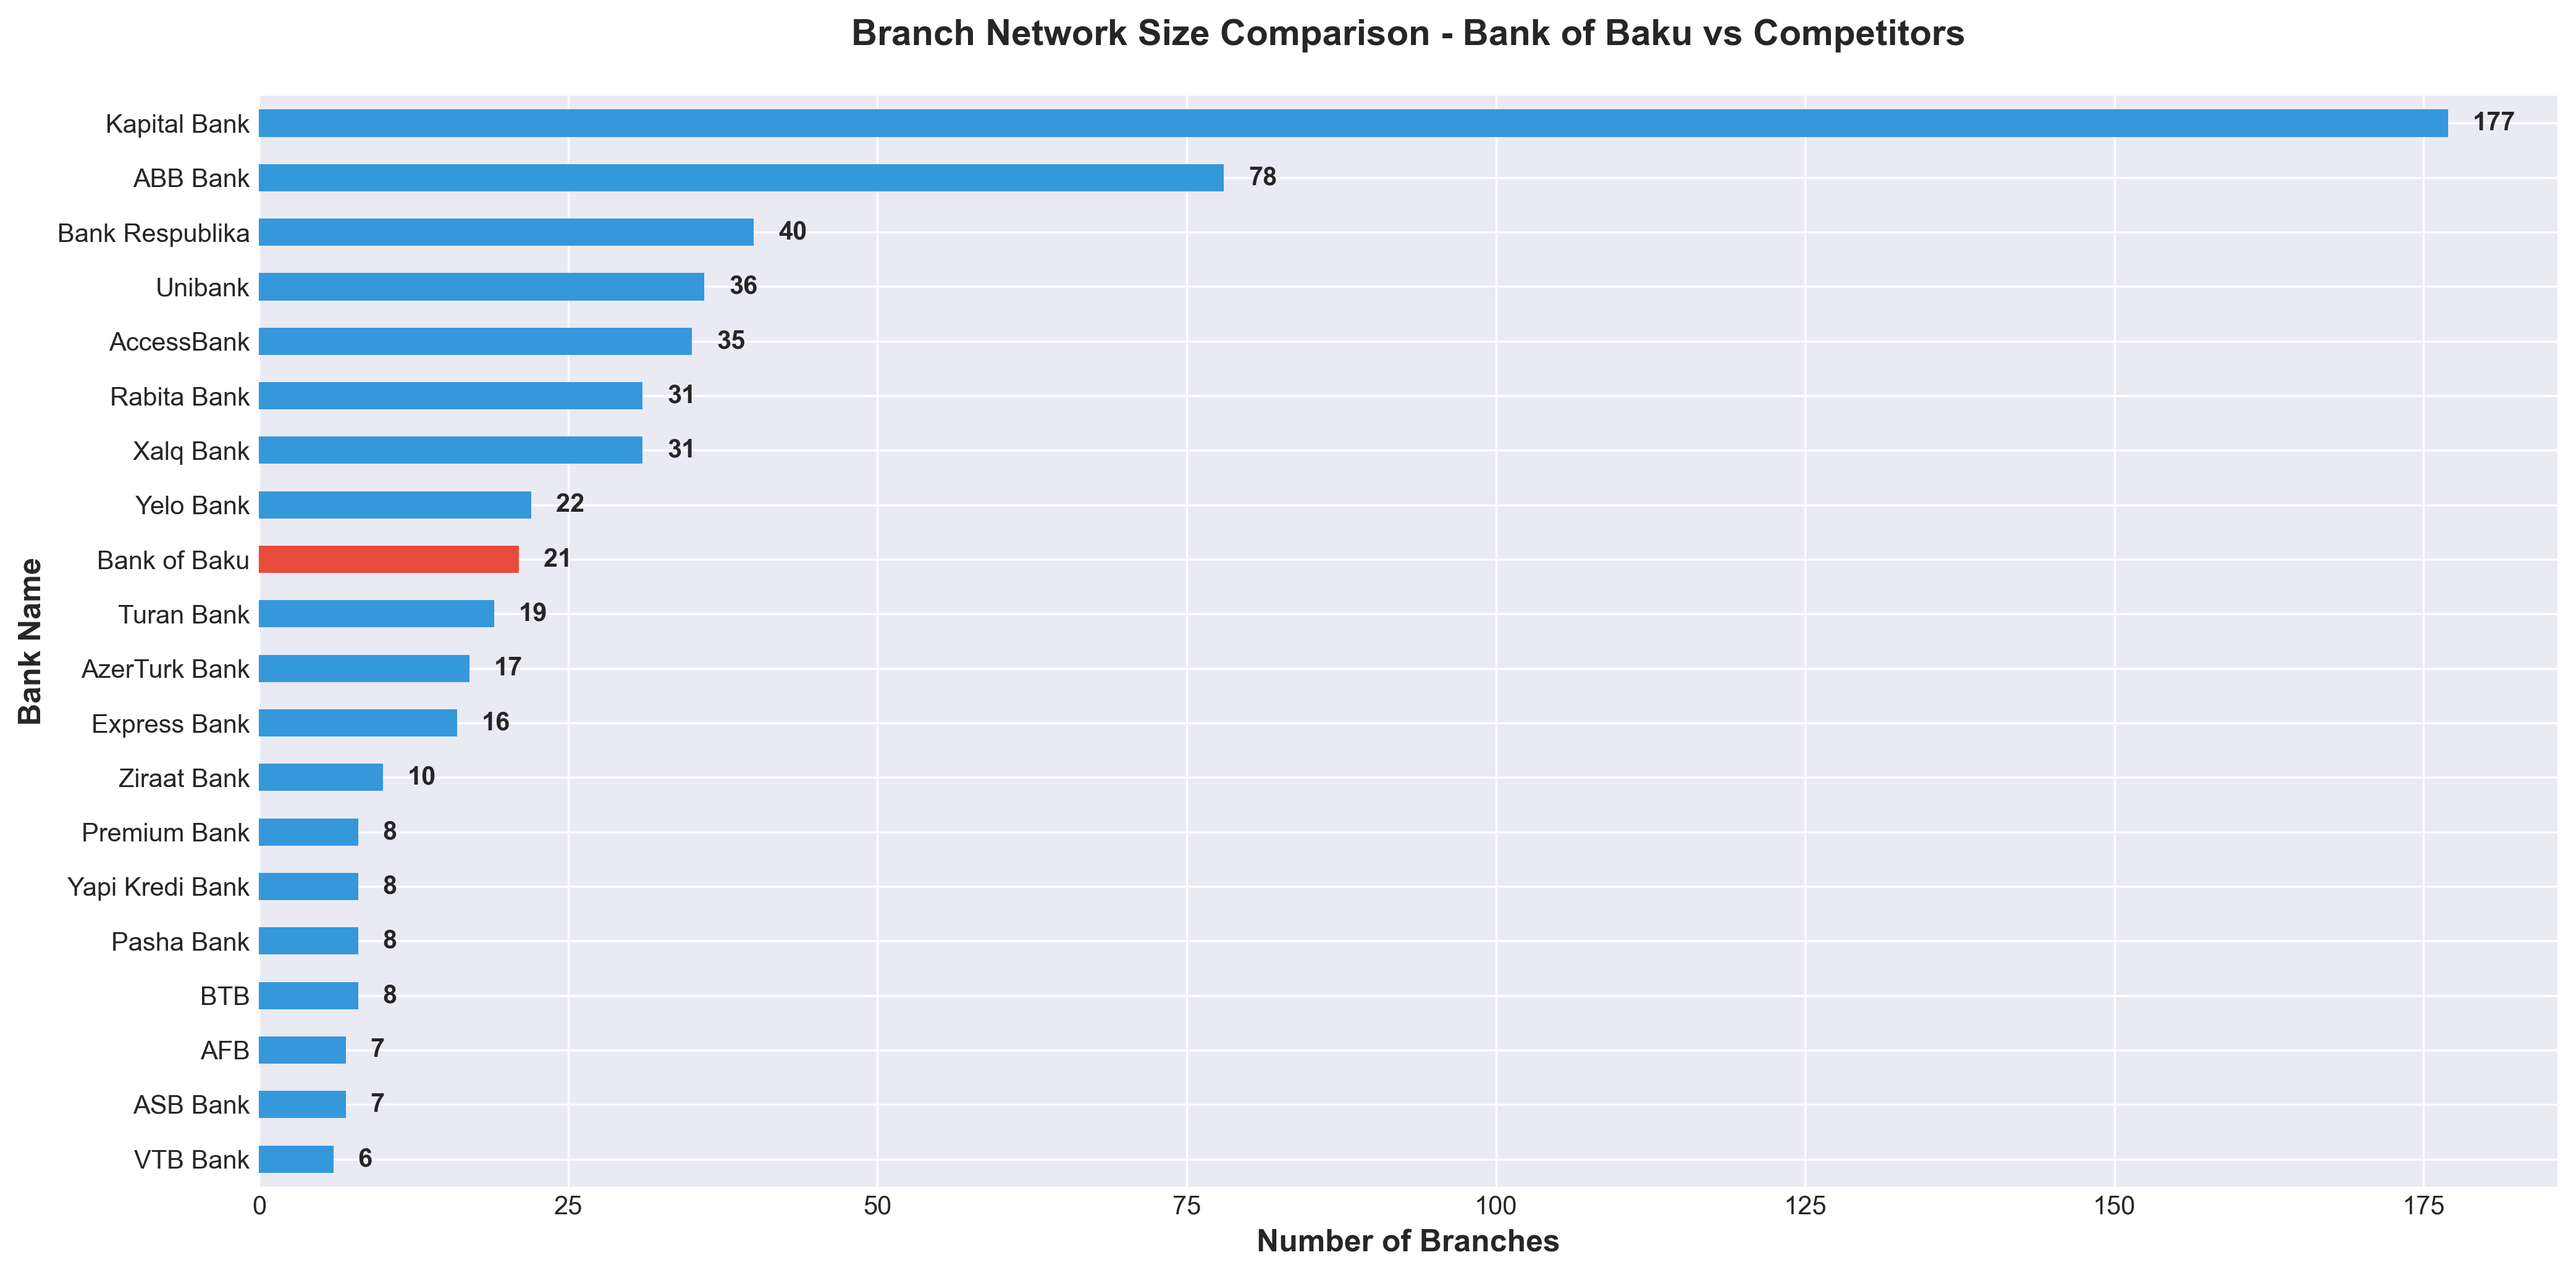
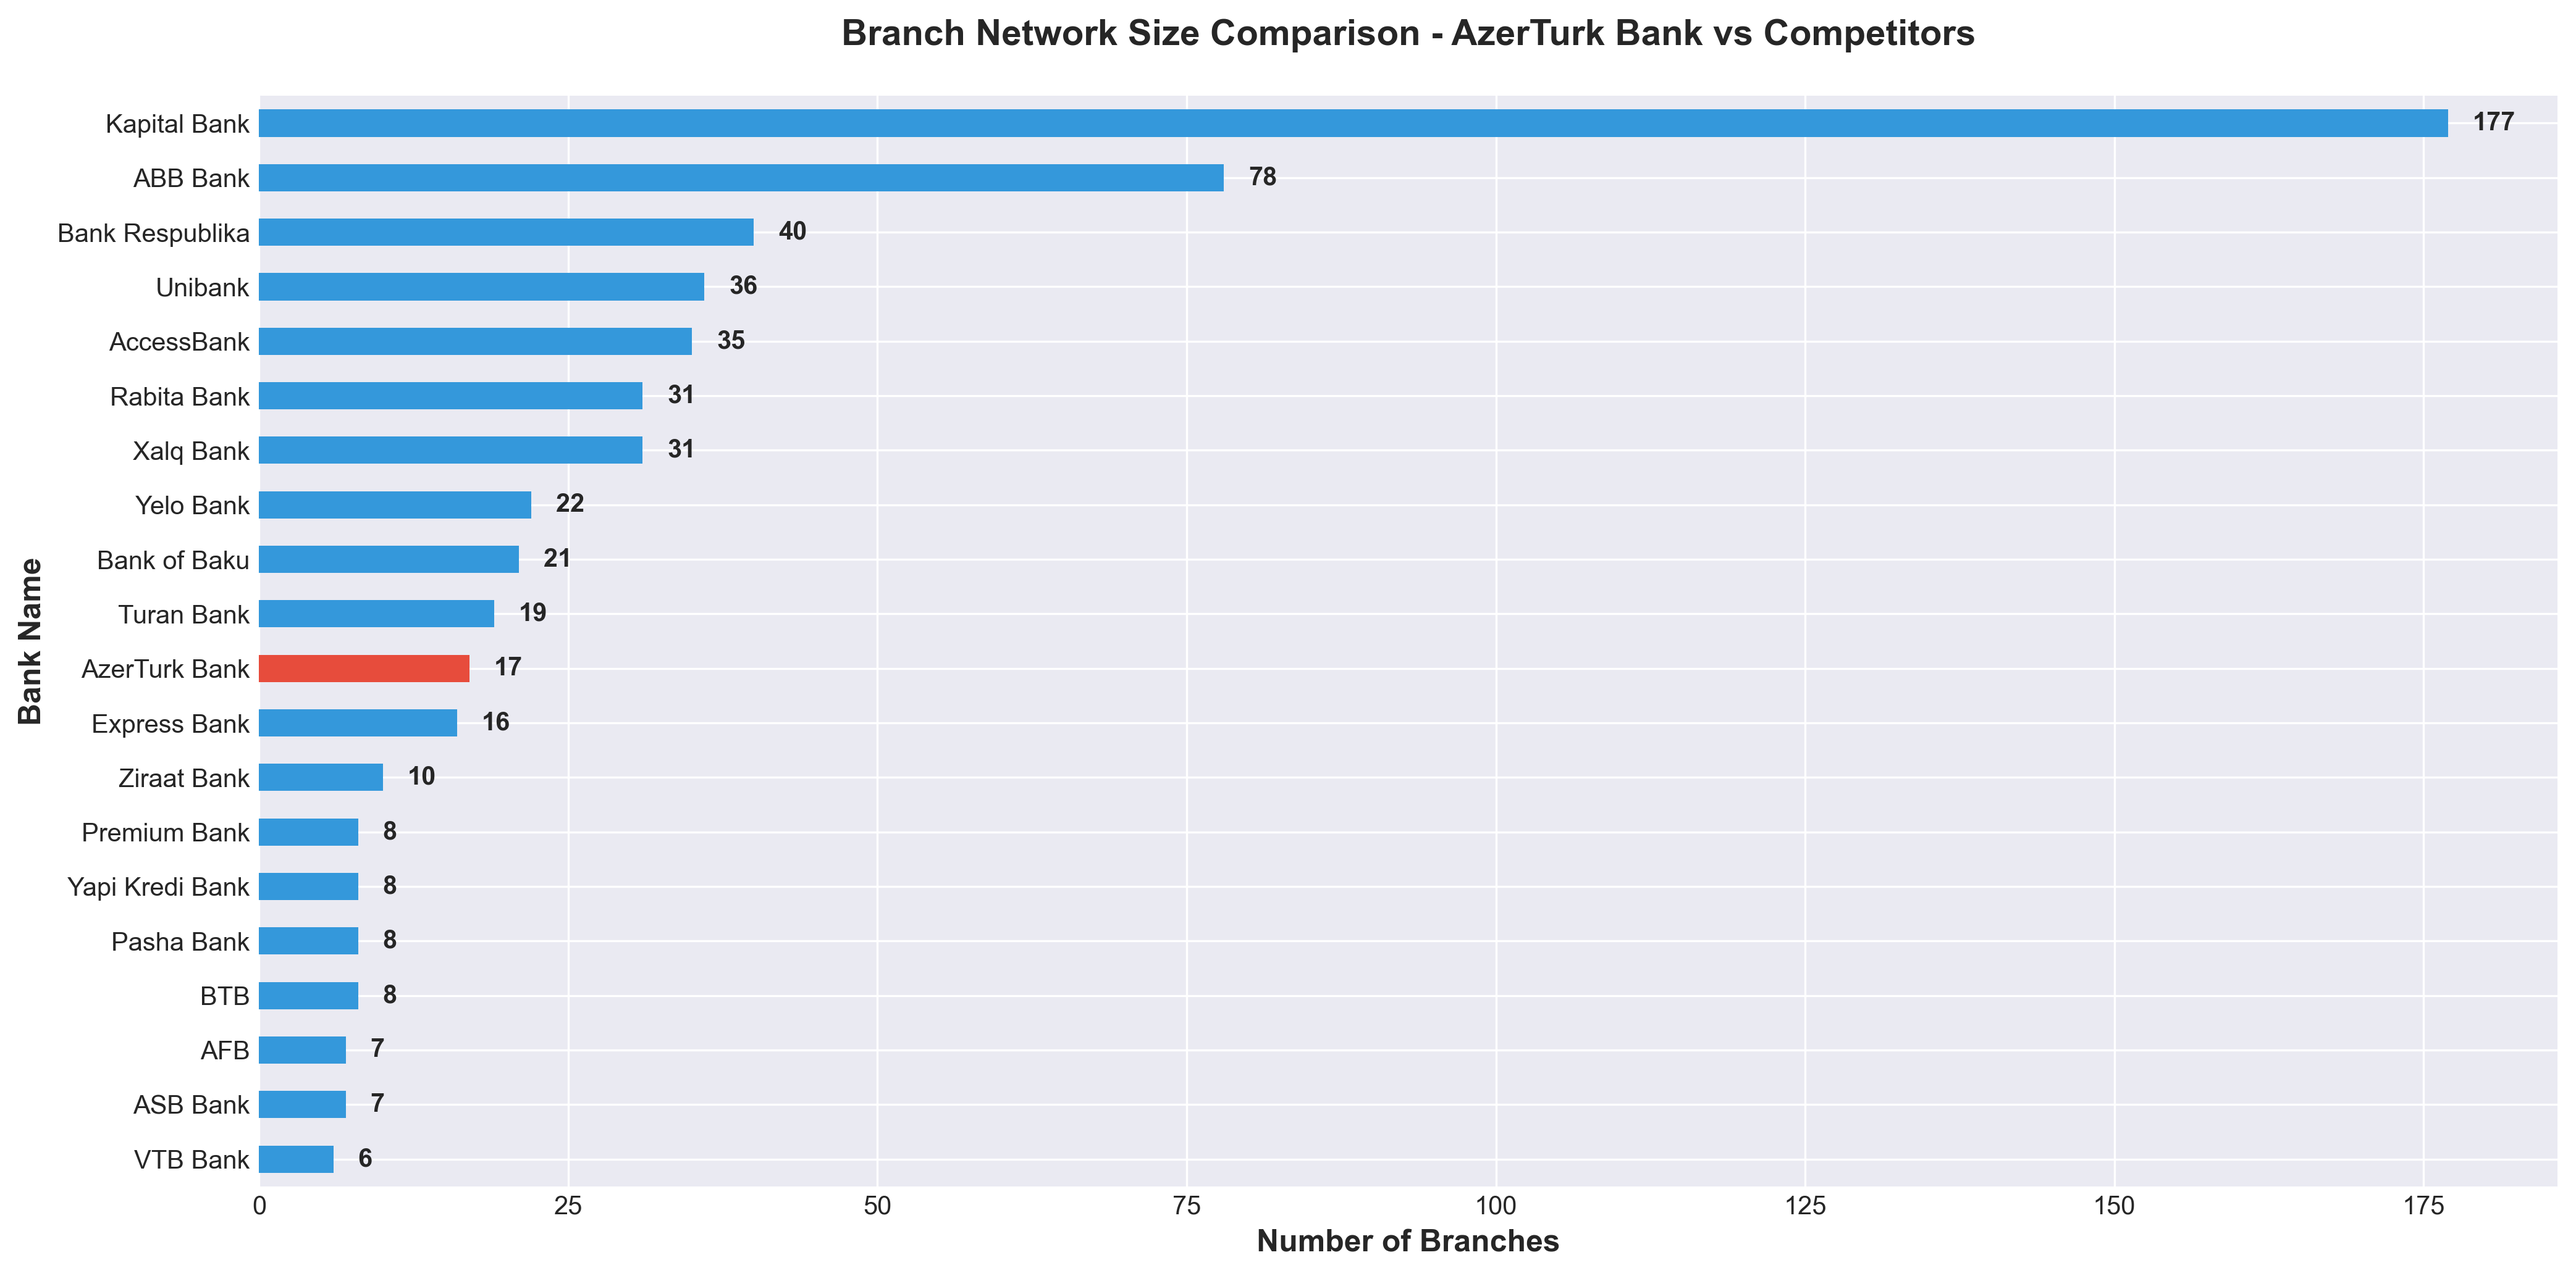
init

Changed region(s): [[0.3118, 0.0, 0.7794, 0.031], [0.0935, 0.4025, 0.2182, 0.4644], [0.0935, 0.4954, 0.1871, 0.5573]]

diff --git a/scripts/run_analysis.py b/scripts/run_analysis.py
@@ -1576,7 +1576,7 @@ print("Generating Strategic Insights Report...")
 
 insights_report = f"""
 ================================================================================
-BANK OF BAKU - STRATEGIC ANALYSIS & ACTIONABLE INSIGHTS
+AZERTURK BANK - STRATEGIC ANALYSIS & ACTIONABLE INSIGHTS
 ================================================================================
 Generated: {pd.Timestamp.now().strftime('%Y-%m-%d %H:%M:%S')}
 
@@ -1813,7 +1813,7 @@ print(" 14. Multi-Metric Comparison")
 print(" 15. Strategic Recommendations Summary")
 print()
 print("=" * 80)
-print("KEY INSIGHTS FOR BANK OF BAKU:")
+print("KEY INSIGHTS FOR AZERTURK BANK:")
 print("=" * 80)
 print(f"• Current Position: Rank #{atb_rank} with {atb_count} branches ({atb_count/total_count*100:.1f}% market share)")
 print(f"• Baku Concentration: {atb_region['Baku']/atb_count*100:.1f}% of branches")

diff --git a/README.md b/README.md
@@ -318,13 +318,9 @@ Number of competitors within 10km radius of each branch. Left: bank comparison. 
 Analysis of AzerTurk Bank's presence across Azerbaijan's actual geographic regions (Baku City, Absheron, North, Northwest, Central, South, West). Shows which banks dominate each zone and where ATB needs to expand.
 
 **Key Insights:**
-- **Baku City:** ATB presence needs recalculation for 17 branches
-- **Absheron Peninsula:** ATB has 2 branches (4.8% share, Rank #4) - decent position
-- **North Zone:** ATB has 2 branches (2.8% share, Rank #9) - weak presence
-- **Northwest Zone:** ATB has 1 branch (1.1% share, Rank #13) - very weak presence
-- **Central Zone:** ATB has **NO presence** - Kapital Bank leads with 12 branches
-- **South Zone:** ATB has 1 branch (5.3% share, Rank #3) - surprisingly good ranking
-- **West Zone:** ATB has **NO presence** - Kapital Bank leads with 10 branches
+- **All zone-specific stats need recalculation for ATB's 17 branches**
+- Zone presence, market shares, and rankings will differ from previous BoB analysis
+- Kapital Bank remains the dominant leader in Central (12 branches) and West (10 branches) zones
 
 **Critical Finding:**
 Two entire regions (Central and West) have **ZERO AzerTurk Bank branches** while Kapital Bank dominates with 12 and 10 branches respectively.
@@ -349,7 +345,7 @@ Focused heatmap for **Baku-Absheron region** (coordinates: 40.30-40.65°N, 49.60
 
 **Current Status:**
 - **292 total branches** in Baku-Absheron area
-- **16 AzerTurk Bank branches** (5.5% of area total)
+- **AzerTurk Bank branches** (needs recalculation for 17 total branches)
 - High competitive density requires precise targeting
 
 **Scoring Methodology (Urban-Optimized):**
@@ -383,7 +379,7 @@ Heatmap for **all regions outside Baku-Absheron**, scoring rural/regional expans
 
 **Current Status:**
 - **293 total branches** in regional Azerbaijan
-- **Only 5 AzerTurk Bank branches** (1.7% of regional total)
+- **AzerTurk Bank branches** (needs recalculation for 17 total branches)
 - **Significant expansion gap** compared to Baku presence
 
 **Scoring Methodology (Regional-Optimized):**

diff --git a/docs/CALCULATIONS.md b/docs/CALCULATIONS.md
@@ -641,13 +641,9 @@ for zone in zones:
 - **ATB Rank:** Position within each zone
 
 **Results Summary:**
-- **Baku City:** ATB presence needs recalculation for 17 branches
-- **Absheron:** ATB has 2 branches (4.8% share, Rank #4)
-- **North:** ATB has 2 branches (2.8% share, Rank #9)
-- **Northwest:** ATB has 1 branch (1.1% share, Rank #13)
-- **Central:** ATB has NO presence (Leader: Kapital Bank with 12 branches)
-- **South:** ATB has 1 branch (5.3% share, Rank #3)
-- **West:** ATB has NO presence (Leader: Kapital Bank with 10 branches)
+- **All zone-specific stats need recalculation for ATB's 17 branches**
+- Zone presence, market shares, and rankings will differ from previous analysis
+- Kapital Bank remains the dominant leader in Central (12 branches) and West (10 branches) zones
 
 ### Strategic Insight
 Two regions with **zero AzerTurk Bank presence** (Central and West) represent high-priority expansion targets. Kapital Bank dominates both zones.
@@ -701,7 +697,7 @@ def calculate_opportunity_score_baku(point):
 ### Output Metrics
 - **Grid Points:** 1,225 locations evaluated
 - **Top 15 Opportunities:** Highest scoring coordinates
-- **Current Status:** 292 total branches, 16 ATB branches (5.5%)
+- **Current Status:** 292 total branches, ATB branches needs recalculation
 
 ---
 
@@ -755,7 +751,7 @@ def calculate_opportunity_score_regions(point):
 ### Output Metrics
 - **Grid Points:** 900 locations evaluated
 - **Top 15 Opportunities:** Highest scoring coordinates
-- **Current Status:** 293 total branches, 5 ATB branches (1.7%)
+- **Current Status:** 293 total branches, ATB branches needs recalculation
 
 ### Key Difference from Chart 13a
 - Larger competitor search radius (30km vs 5km)
